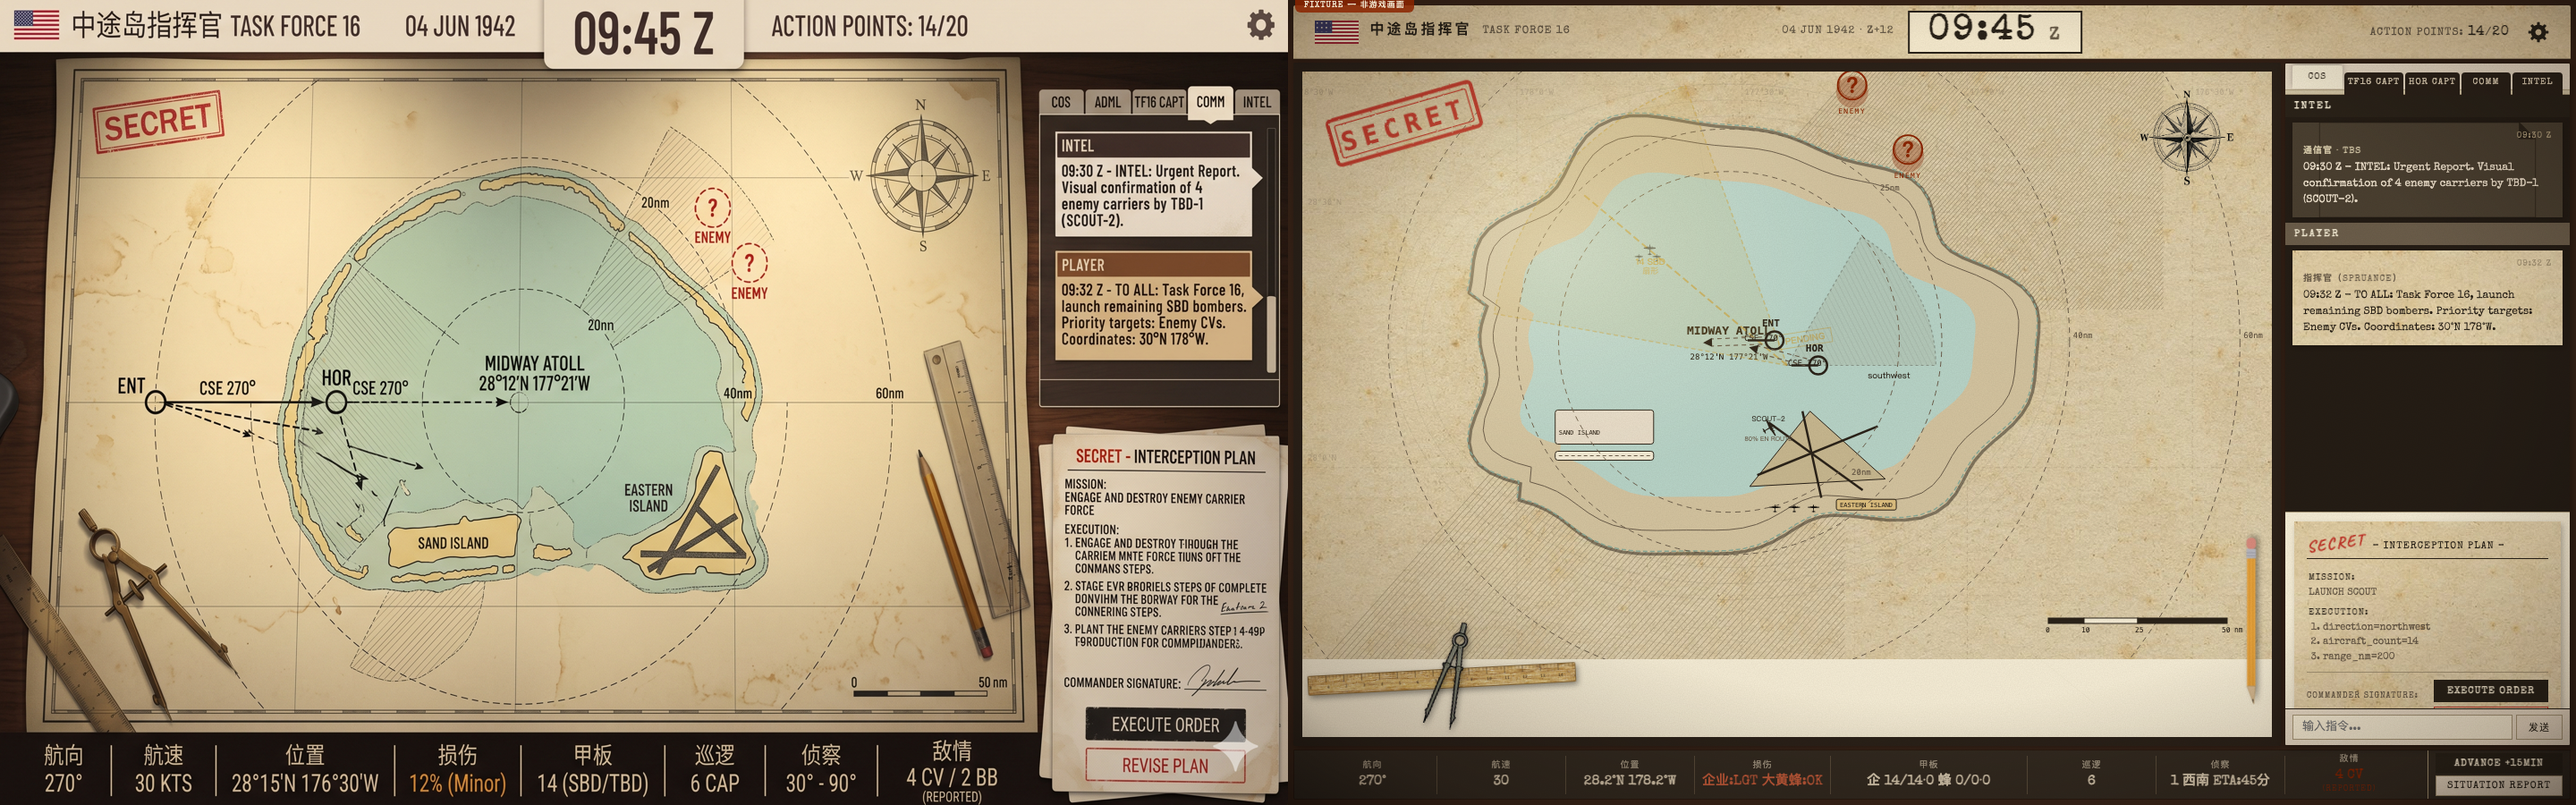
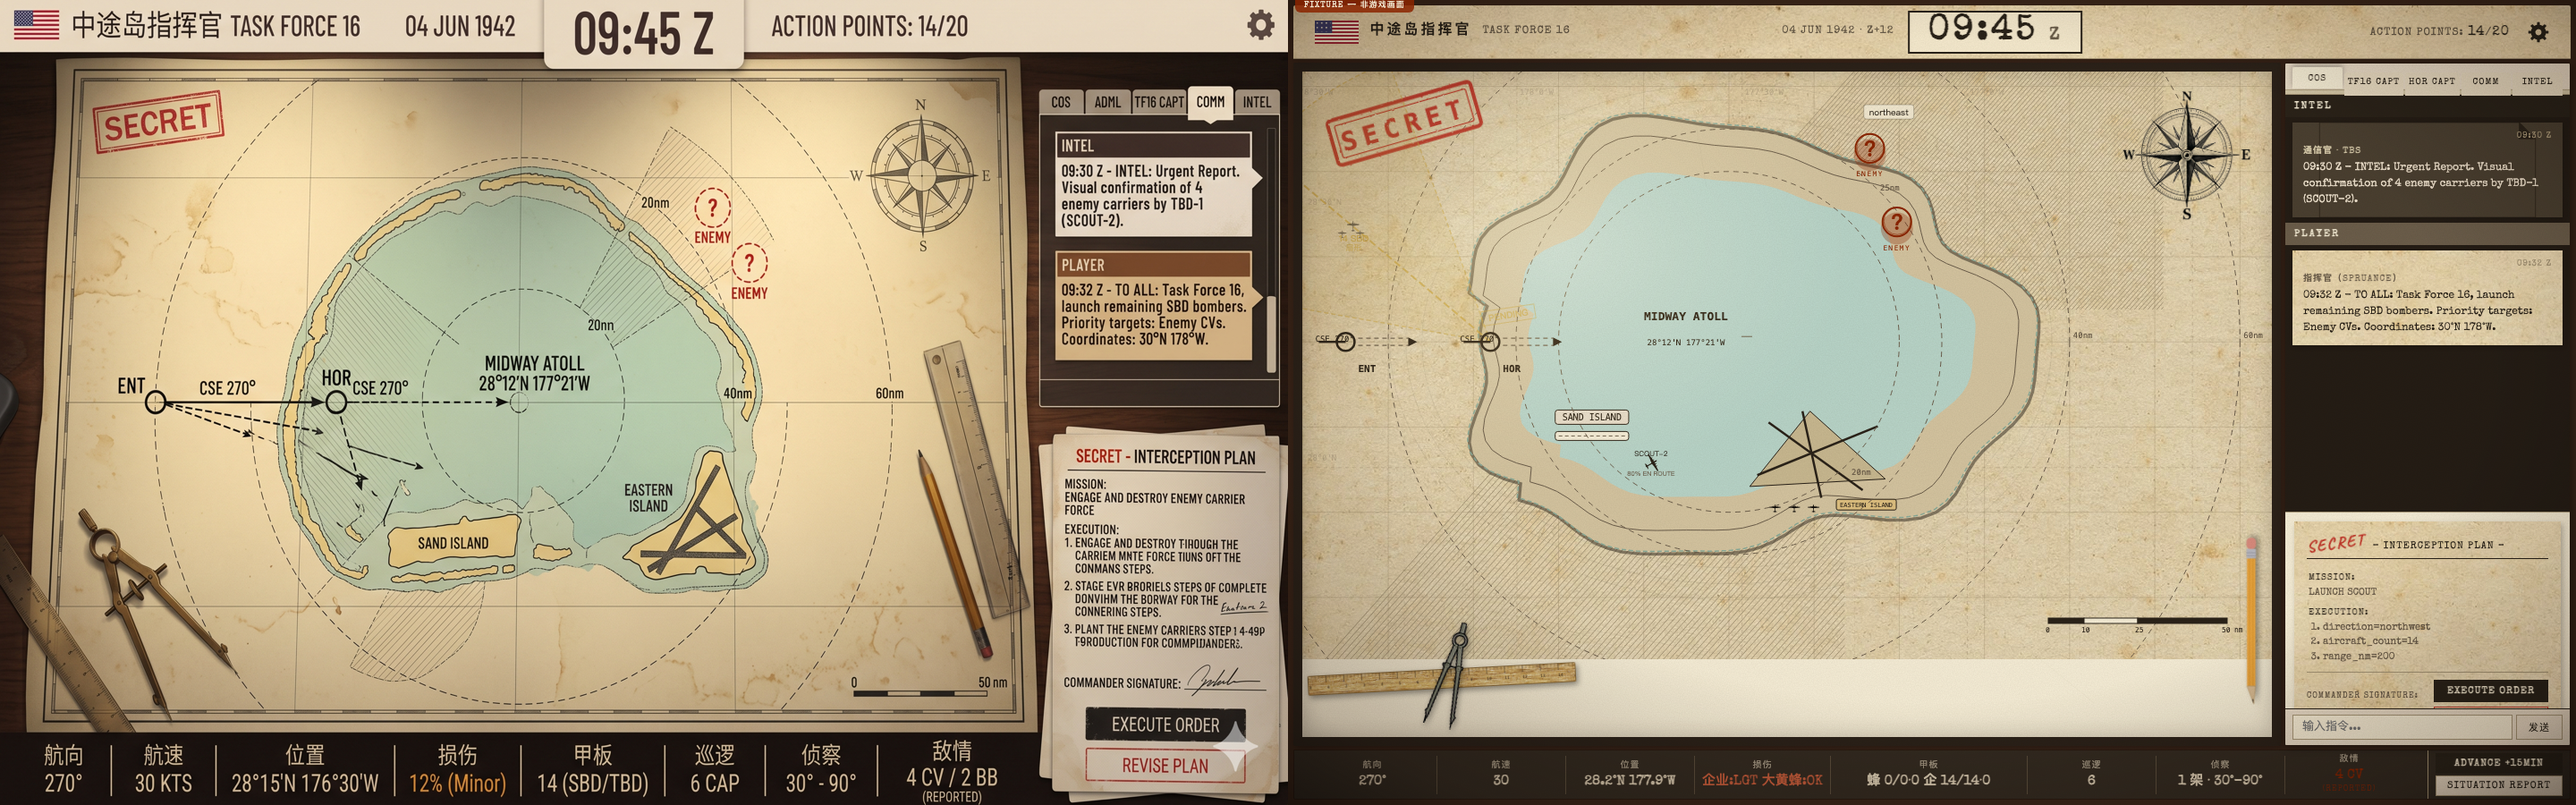
docs: Phase M 视觉回归验收

diff --git a/docs/reports/product-compare/phase-m-verify.md b/docs/reports/product-compare/phase-m-verify.md
@@ -1,0 +1,91 @@
+# Phase M 视觉回归验收（M.5 · fixture + 空态双页）
+
+日期：2026-09-14 · 执行人：M.5 实现代理 · 基准提交：8558618（M.4 完成态）
+基准图：`docs/assets/Gemini_Generated_Image_u1fak0u1fak0u1fa.png`（成品图）
+当前图：`docs/reports/product-compare/phase-m-verify-fixture.png`（设计态 fixture 实拍）
+对照图：`docs/reports/product-compare/phase-m-verify-empty.png`（uvicorn 真后端空态主页实拍）
+
+## 复现命令
+
+```bash
+# 0. 探活（本次 uvicorn 已在跑，HTTP 200）
+curl -s -o /dev/null -w "%{http_code}" http://localhost:8000/
+# 1. 无头 Chrome 截图（1440×900，M.4 先例：真后端 + virtual-time-budget）
+"/Applications/Google Chrome.app/Contents/MacOS/Google Chrome" --headless=new --disable-gpu \
+  --hide-scrollbars --window-size=1440,900 --timeout=12000 --virtual-time-budget=9000 \
+  --screenshot=docs/reports/product-compare/phase-m-verify-fixture.png \
+  "http://localhost:8000/static/dev/design-fixture.html"
+# 2. 同参数截空态主页
+"/Applications/Google Chrome.app/Contents/MacOS/Google Chrome" --headless=new --disable-gpu \
+  --hide-scrollbars --window-size=1440,900 --timeout=12000 --virtual-time-budget=9000 \
+  --screenshot=docs/reports/product-compare/phase-m-verify-empty.png \
+  "http://localhost:8000/"
+# 3. 区域比对
+.venv/bin/python docs/assets/compare_regions.py \
+  "docs/assets/Gemini_Generated_Image_u1fak0u1fak0u1fa.png" \
+  docs/reports/product-compare/phase-m-verify-fixture.png docs/reports/product-compare/
+```
+
+## 验收结论：**PASS**
+
+| 验收项 | H 批基线（fixture） | 本次（fixture） | 线 | 判定 |
+|---|---|---|---|---|
+| 4×4 区域均色差最大格 | 40.5（r2c3） | **38.6**（r2c3） | ≤45 | ✅ |
+| 结构要素清单 | 9/9 | **12/12**（M 批清单扩容） | 逐项 | ✅ |
+| 空态确定性 | — | 与 M.4 存档 m4-empty-1440.png 全图 diff = **0 px** | — | ✅ |
+
+整体均值色：设计 (169,153,123) vs 当前 (168,156,130)——B 通道 +7、G 通道 +3，较 H 批 (165,154,127) 略移暖，量级为纸纹颗粒级。
+
+## 4×4 区域均色差矩阵（0–255）
+
+```
+     1.9     3.6    20.0    21.0   <- 行 0
+    11.2    19.7    10.8     7.8   <- 行 1
+    14.8     6.3    11.4    38.6   <- 行 2
+    24.1    30.1    33.8     5.0   <- 行 3
+```
+
+最大热区：r2c3 = 38.6（H 批同格 40.5，连续两轮为右栏命令卡构图差，见「与 H 批基线差异」）。全图无任何格子超 45 验收线。
+
+## 结构要素核验表（M 批清单 12 项，Read 截图 + PIL 量测逐项目检）
+
+| 要素 | 实拍证据 | 判定 |
+|---|---|---|
+| 近景环礁 | 大面积环礁特写：礁环双缘带 + 青绿潟湖 + SAND ISLAND/EASTERN ISLAND 岛屿（东岛带 ×3 停机剪影） | ✅ |
+| 20nm 环贯穿 | 最内虚线环横穿礁环与潟湖（环体压陆可见），标签按 L4-F1 修复画环内下方位，实拍 (638,524) 处「20nm」完整可读 | ✅ |
+| 四环 | `theater.json range_rings.rings_nm = [20,25,40,60]` 四环齐：20nm（环内下）、25nm（右上 45° 防重叠位）、40nm（右侧）、60nm（右侧）标签逐一在位 | ✅ |
+| 圆圈标记 ENT 左外缘 | 画布 (48.5,302.2) 图左外缘开阔水面，CSE 270 + 东向矢量 | ✅ |
+| 圆圈标记 HOR 环礁西缘 | 画布 (210.4,302.2) 西礁环带（28nm scenario 真实位） | ✅ |
+| 双虚线箭头 | ENT/HOR 圈缘双平行虚线 + 末端实心三角箭头，指向环礁 | ✅ |
+| 敌标双红圈东北 | 红圈 ? + ENEMY 双标，页面质心 (649.6,169.3)/(678.9,249.8)，减画布原点偏移 (≈14.5,75.3) = (635.1,94.0)/(664.4,174.5)，与 approved 画布位 (634.6,93.1)/(664.9,175.4) 逐像素同带（M.4 反推经纬保持成品图像素的裁定落实） | ✅ |
+| 罗盘 | 右上角雕刻光栅罗盘 | ✅ |
+| 比例尺 | 右下 0-10-25-50 nm 分段条 | ✅ |
+| 尺 / 圆规 / 铅笔 | 木尺 + 黄铜圆规左下压图角，铅笔右缘竖放 | ✅ |
+| 深色 chrome | 底栏深棕黑 + 右栏深底 + INTEL 暗卡；底栏（bottom_bar 采样差 (−9,−8,−9) 与 H 批逐通道持平） | ✅ |
+| 命令卡 | SECRET–INTERCEPTION PLAN 军令纸 + EXECUTE ORDER（fixture）；空态正确降级为 STAFF PROPOSAL / NO PENDING ORDERS 灰按钮 | ✅ |
+| 细网格 | 图面细经纬网格线隐约可见（右半图面尤清晰） | ✅ |
+| 晕影 | 图缘晕影压暗（成品图同款做旧边） | ✅ |
+
+（后两项为本批清单相对 H 批 9 项的扩容项，连同细网格共 12 项全在位。）
+
+## 空态主页核验（phase-m-verify-empty.png）
+
+- ENT 图左外缘（画布更宽的真实主页布局下同样左缘位，与 M.4 存档**全图 0 px diff**——渲染确定，M.4 后无视觉漂移）；HOR 环礁西缘 + CSE 270 双虚线箭头。
+- 空态正确形态：**无敌标**（known_enemy 过滤，核心机制不对称性）、侦察机无、命令卡降级 STAFF PROPOSAL、chat 区「等待指令 (AWAITING ORDERS)」。
+- scenario 布兵读数：航向 270° / 航速 **25** / 位置 **28.2°N 178.3°W**（ENT 真实位）/ CAP 24 / AP 3/3 / 甲板 企 80/80·零 80/80·0 / 侦察 无 / 敌情 暂无——与 M.4 initial_state scenario 化逐项一致。
+- 底图四环、罗盘、比例尺、尺圆规铅笔、细网格、晕影与 fixture 同构在位。
+
+## 与 H 批基线的差异说明
+
+1. **r2c3 = 38.6（最大热区，H 批 40.5）**：同源残余——成品图军令纸卡紧贴 PLAYER 卡下方密排，当前 chat-log `flex:1` 把命令卡推到右栏底部，中段留深色空档。E6 常驻卡布局的**构图差异**，非实现缺陷，H 批已裁定留 Loop，本轮延续。
+2. **r0c3 显著改善（32.1 → 21.0）**：H 批该格含右栏上段 NPC 标签舌 + 顶栏右段风格差，本轮读数同布局下差值收敛，属纸纹颗粒噪声跨会话摆动（M.4 已证同环境双截 0 diff，H 批基线系前会话 Chrome 成像，格间 ±数点为噪声底）。
+3. **中部格小幅上浮（r1c1 14.0→19.7、r2c2 6.3→11.4）**：M.4 投影唯一化 + scenario 布兵的**裁定内变化**——舰队带西移（HOR 画布 238.9→210.4，−28.5px）、PENDING 印章随首航母锚西移、ENT/HOR 从「中心对角错开」改为「图左外缘 + 环礁西缘」真实投影位。这是「scenario 布兵位 vs 成品图构图」的数据差异，按任务书裁定**不算缺陷**；成品图整体构图带（敌标东北、环礁中心 0.44/0.46 锚、四环半径）保持。
+4. **底行三格（24.1/30.1/33.8）与 H 批（23.7/29.3/33.4）逐格持平（±0.4）**：图面下缘道具带（圆规尺）风格微差，H 批已登记留 Loop，无恶化。
+
+**本轮未修任何项**：最大格 38.6 在线内、要素 12/12 无缺失、无明显实现缺陷——按裁定仅修明显实现缺陷，本轮为零。
+
+## 存证
+
+- `phase-m-verify-fixture.png` / `phase-m-verify-empty.png`：双页实拍（1440×900，无头 Chrome，uvicorn 真后端）
+- `design-scaled.png` / `side-by-side.png`：compare_regions.py 比对输入与左右拼接（脚本覆写生成）
+- `compare-report.md`：本次比对机器报告（由脚本覆写生成）

diff --git a/docs/reports/product-compare/compare-report.md b/docs/reports/product-compare/compare-report.md
@@ -1,30 +1,30 @@
 # 区域比对报告（compare_regions.py）
 
 - 设计：`docs/assets/Gemini_Generated_Image_u1fak0u1fak0u1fa.png` → 统一 1440×900（非等比压缩，仅区域粗测）
-- 当前：`docs/reports/product-compare/fixture-1440.png`
+- 当前：`docs/reports/product-compare/phase-m-verify-fixture.png`
 - 口径：区域均色差 = 两图均色 RGB 绝对差的均值（0–255）；缩放插值允许 ±2 波动。
 
 ## 整体均值色
 
-设计 (169,153,123) vs 当前 (165,154,127)
+设计 (169,153,123) vs 当前 (168,156,130)
 
-## 4×4 区域均色差矩阵（最大热区 r2c3 = 40.5，计划基准 98.7）
+## 4×4 区域均色差矩阵（最大热区 r2c3 = 38.6，计划基准 98.7）
 
 | 行\列 | 0 | 1 | 2 | 3 |
 |---|---|---|---|---|
-| 0 | 3.9 | 1.2 | 20.9 | 32.1 |
-| 1 | 11.4 | 14.0 | 14.7 | 10.1 |
-| 2 | 11.9 | 4.8 | 6.3 | 40.5 |
-| 3 | 23.7 | 29.3 | 33.4 | 6.8 |
+| 0 | 1.9 | 3.6 | 20.0 | 21.0 |
+| 1 | 11.2 | 19.7 | 10.8 | 7.8 |
+| 2 | 14.8 | 6.3 | 11.4 | 38.6 |
+| 3 | 24.1 | 30.1 | 33.8 | 5.0 |
 
 ## 关键采样
 
 | 采样 | 设计 RGB | 当前 RGB | 差（当前−设计） |
 |------|----------|----------|------------------|
-| chart_blank 图面空白 | (231,207,159) | (210,193,158) | (-21,-13,-2) |
-| top_bar 顶栏 | (201,184,164) | (188,171,138) | (-12,-13,-26) |
-| bottom_bar 底栏 | (62,50,41) | (53,42,33) | (-9,-8,-9) |
-| right_col 右栏 | (138,120,102) | (118,105,84) | (-20,-15,-17) |
+| chart_blank 图面空白 | (231,207,159) | (214,197,162) | (-17,-10,2) |
+| top_bar 顶栏 | (201,184,164) | (193,175,142) | (-8,-9,-22) |
+| bottom_bar 底栏 | (62,50,41) | (52,42,32) | (-9,-8,-9) |
+| right_col 右栏 | (138,120,102) | (123,110,90) | (-15,-10,-12) |
 
 ## 存证
 
